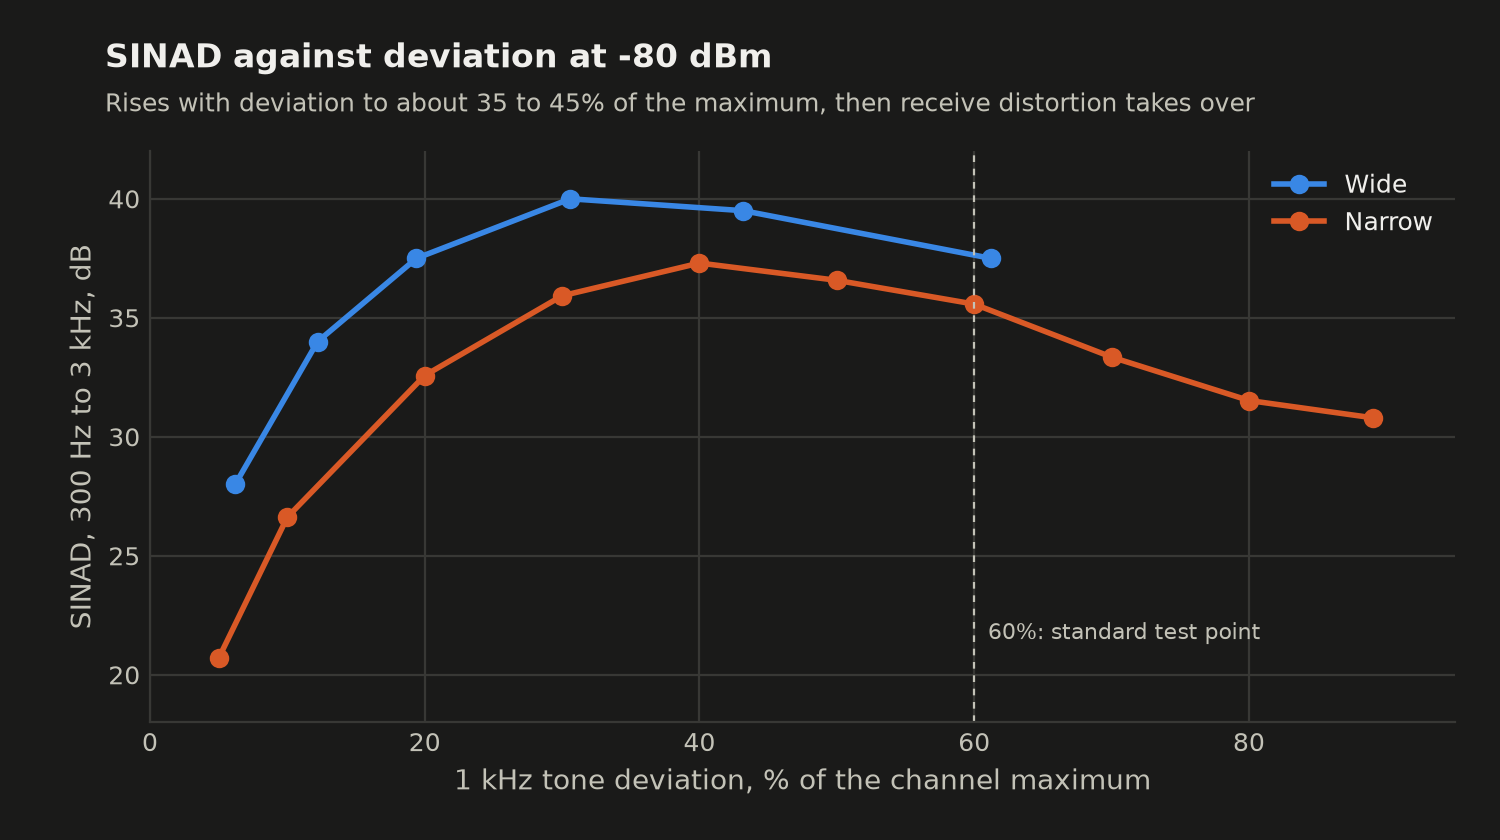
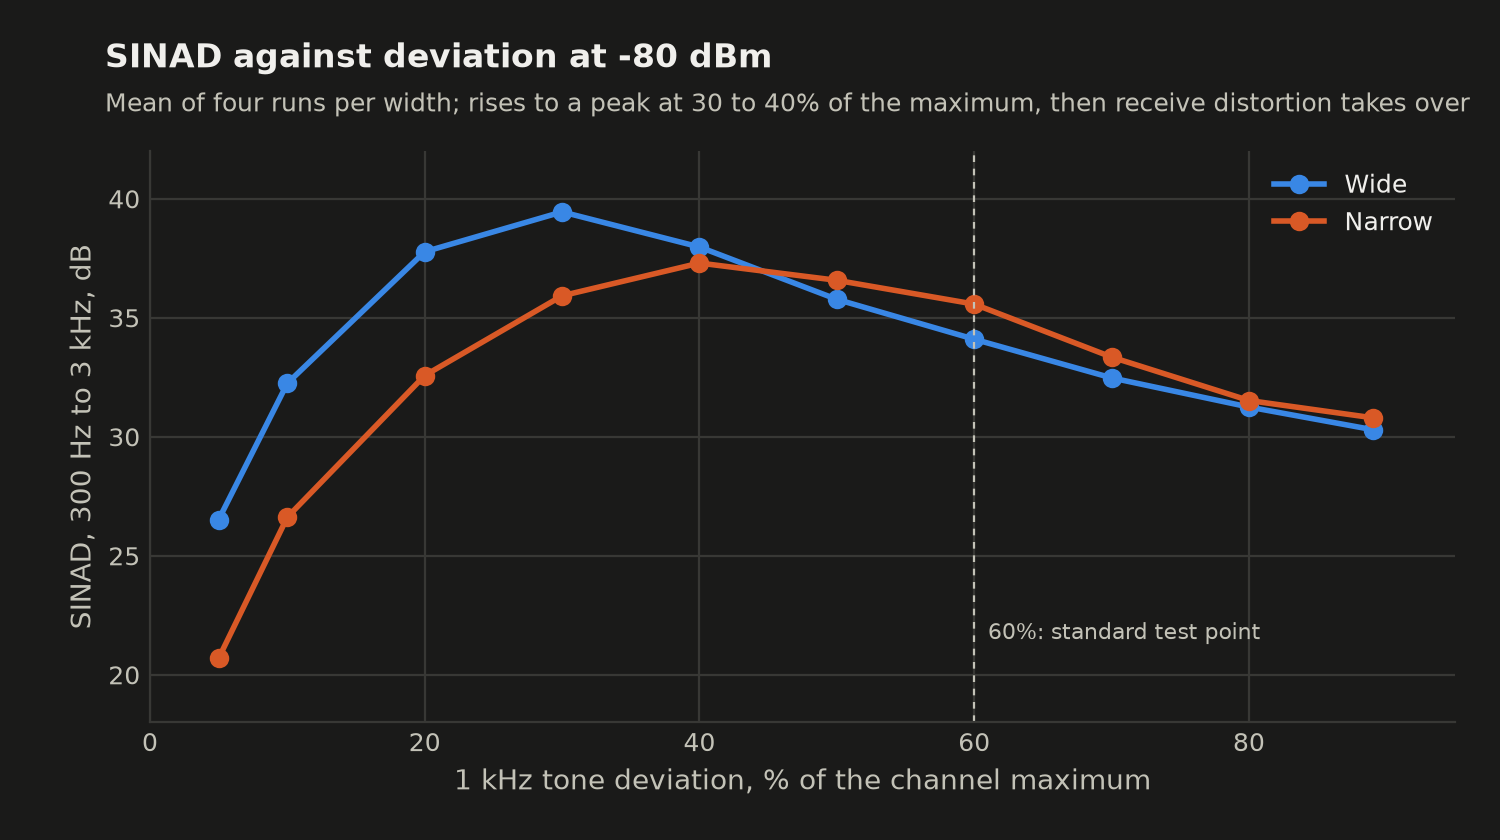
SINAD on Wide with R11 = 2k0, four runs: 34.1 dB at 60%, hum and noise 44.8 dB; chart from the new data

diff --git a/tools/plots.py b/tools/plots.py
@@ -12,8 +12,8 @@ def mtone(w):
     rs = [json.load(open(f))['rows'] for f in sorted(glob.glob(f'{S}e2e-{w}-*-mtone.json'))]
     f = np.array([r['f'] for r in rs[0]]); gd = np.mean([[r['gd_us'] for r in x] for x in rs], 0)
     gds = np.array([np.mean(gd[max(0,i-(1 if f[i]<1000 else 4)):i+(2 if f[i]<1000 else 5)]) for i in range(len(gd))]); return f, gds
-def sinad_narrow():
-    rs = [json.load(open(f))['rows'] for f in sorted(glob.glob(f'{S}e2e-narrow-*-sinad*.json'))]
+def sinad(w):
+    rs = [json.load(open(f))['rows'] for f in sorted(glob.glob(f'{S}e2e-{w}-*-sinad*.json'))]
     p = np.array([r['pct'] for r in rs[0]]); return p, np.mean([[r['sinad_db'] for r in x] for x in rs], 0)
 # Wide SINAD against deviation, 1 kHz, measured 15 November at the same -80 dBm (deviation-referenced, so the board change does not affect it)
 wide_pct = np.array([0.31, 0.61, 0.97, 1.53, 2.16, 3.06])/5*100; wide_sinad = np.array([28, 34, 37.5, 40, 39.5, 37.5])
@@ -60,12 +60,11 @@ for mode, t in THEMES.items():
     finish(fig, ax, t, 'Distortion against modulating frequency', 'Tone at 28% of the channel maximum; rises about 6 dB per octave above 1 kHz (receiver)', 'distortion', mode)
     # 4 SINAD
     fig, ax = plt.subplots(figsize=(7.5, 4.2)); style(ax, t)
-    p, sn = sinad_narrow()
-    ax.plot(wide_pct, wide_sinad, color=t['s'][0], lw=2, marker='o', ms=6, label='Wide')
-    ax.plot(p, sn, color=t['s'][1], lw=2, marker='o', ms=6, label='Narrow')
+    for w, lbl, c in (('wide', 'Wide', t['s'][0]), ('narrow', 'Narrow', t['s'][1])):
+        p, sn = sinad(w); ax.plot(p, sn, color=c, lw=2, marker='o', ms=6, label=lbl)
     ax.axvline(60, color=t['ink2'], lw=0.8, ls=(0, (3, 3))); ax.text(61, 21.5, '60%: standard test point', color=t['ink2'], fontsize=8)
     ax.set_xlim(0, 95); ax.set_ylim(18, 42); ax.set_xlabel('1 kHz tone deviation, % of the channel maximum'); ax.set_ylabel('SINAD, 300 Hz to 3 kHz, dB')
-    finish(fig, ax, t, 'SINAD against deviation at -80 dBm', 'Rises with deviation to about 35 to 45% of the maximum, then receive distortion takes over', 'sinad', mode)
+    finish(fig, ax, t, 'SINAD against deviation at -80 dBm', 'Mean of four runs per width; rises to a peak at 30 to 40% of the maximum, then receive distortion takes over', 'sinad', mode)
     # 5 noise floor
     fig, ax = plt.subplots(figsize=(7.5, 4.2)); style(ax, t)
     for (f, L, h2, h3, n), lbl, c in ((W, 'Wide', t['s'][0]), (N, 'Narrow', t['s'][1])):

diff --git a/README.md b/README.md
@@ -191,15 +191,16 @@ A tone at the same share of the channel's maximum deviation arrives at the same 
 
 | | Wide | Narrow |
 |---|---|---|
-| Peak SINAD | 40 dB, at about 30 to 40% of maximum | 37.3 dB, at about 40% |
-| SINAD at 60% (the standard figure) | about 37.5 dB | **35.6 dB** |
-| SINAD at 89% (sound card full scale) | not measured | 30.8 dB |
-| Distortion of the 1 kHz tone at 60% | about -36 dBc | -35.5 dBc |
-| FM hum and noise (60% tone against unmodulated carrier) | about 44 dB (estimated from the noise floor, not measured directly) | **39.4 dB** |
+| Peak SINAD | **39.5 dB**, at 30% of maximum | **37.3 dB**, at 40% |
+| SINAD at 60% (the standard figure) | **34.1 dB** | **35.6 dB** |
+| SINAD at 89% (sound card full scale) | 30.3 dB | 30.8 dB |
+| Distortion of the 1 kHz tone at 60% | -33.6 dBc | -35.5 dBc |
+| FM hum and noise (60% tone against unmodulated carrier) | **44.8 dB** | **39.4 dB** |
 
-- **SINAD rises with deviation only up to about 35 to 45% of the maximum.** Beyond that the receiver's own distortion dominates, so on a strong signal the channel is distortion-limited, not noise-limited. On a weak signal the peak moves to higher deviation.
-- **Narrow is about 2.5 to 6 dB behind Wide** on these measures, as expected for half the deviation.
-- Wide was measured on 15 November with the earlier R11 (3k3), which limited it to 61%; the figures are referenced to deviation, so the board change does not alter them. Narrow is the mean of four runs, two each way, which agree within 1 dB.
+Each width is the mean of four runs, two each way, which agree within 1 dB.
+
+- **SINAD rises with deviation only up to 30 to 40% of the maximum.** Beyond that the receiver's own distortion dominates: on a strong signal the channel is distortion-limited, not noise-limited. On a weak signal the peak would move to higher deviation.
+- **Below the peak, Wide is 2 to 6 dB better** (twice the deviation for the same share of the channel, and noise is the limit there). **Above about 45%, Narrow is as good or slightly better,** because Wide's larger deviation brings more receiver distortion. The hum and noise ratio, which has no distortion in it, is 5.4 dB better on Wide.
 - **Not measured: 12 dB SINAD sensitivity** (the RF level at which SINAD falls to 12 dB, the receiver's weak-signal limit). It needs the RF level stepped, by changing pads; at a fixed -80 dBm every figure here is the strong-signal case.
 
 **Key-up and key-down timing**, seen at the receiver with the transmitting card already playing a tone when PTT changes:
